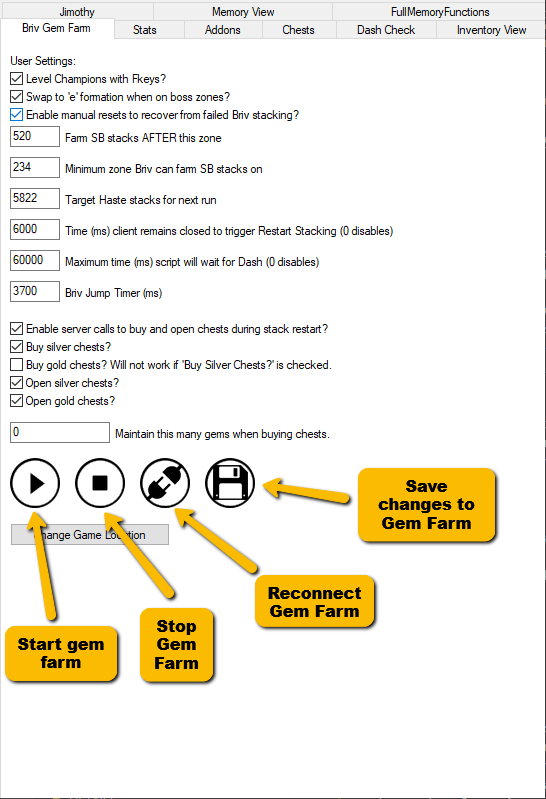
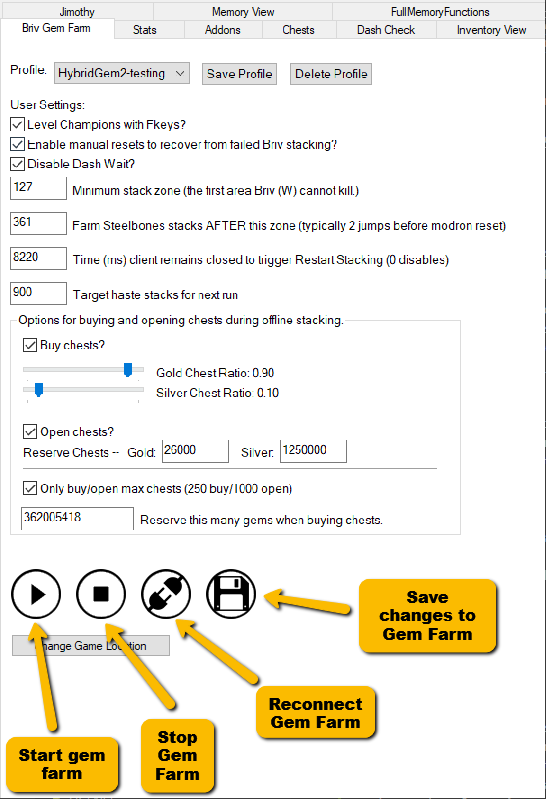
Misc. documentation updates.

Changed region(s): [[0.0, 0.0601, 0.9341, 1.0]]

diff --git a/AddOns/IC_BrivGemFarm_Performance/SETTINGS.md b/AddOns/IC_BrivGemFarm_Performance/SETTINGS.md
@@ -1,40 +1,92 @@
 # BrivGemFarm_Performance Settings File
 ## Description:
-These are the currently available advanced settings for this AddOn. These are are for advanced users and must be set from within the ``BrivGemFarmSettings.json`` file.
+These are the settings used by the BrivGemFarm_Performance AddOn. They are saved in `BrivGemFarmSettings.json` and can be configured through the main Briv Gem Farm tab, the Advanced Settings tab, or edited directly in the JSON file.
 
-## Settings: 
+## Settings:
 
-* **BrivJumpBuffer** - 0-2000 (zones/areas)  
-This value tells the script how many areas before a modron reset zone that switching to e formation over q formation is desired. The value should be greater than the stack zone value, but less than the modron reset value. This helps resolve issues of Briv Stacks not being converted properly on modron resets.
-  
-* **DashWaitBuffer** - 0-? (time in ms)  
-**Updated:** DashWaitBuffer has been repurposed to be a distance from your modron's reset zone where dashwait will stop being activated. Default is 30.
-e.g. WIth the default value DashWait will not trigger if the script is started at 280 and then reset area is 305.
-~~Sometimes DashWait timer ends before Shandie gains dash. This setting adds a value in ms to the already set DashWait time. (Largely unnecessary as you can just increase your DashWait time.)~~
+* **LastSettingsUsed**: `<string>` (Default: "Default")  
+Stores the name of the last settings profile loaded or saved.
 
-* **DoChestsContinuous**: 0 / 1  
-If you are not satisfied with only 100/99 Buy/Open chests per run you can set this to 1. The script will buy and open as many as it can within the stack sleep time set. 
+* **Fkeys**: `0` / `1` (Default: `1`)  
+When set to 1, the script uses function keys (F1-F12) to level up champions in the active team automatically, eliminating the need for familiars on individual bench slots.
 
-> **Note:** The script will only open silver chests if there are at least 3 seconds left on Stack Reset Time, and will only open Gold Chests if there are at least 7 seconds left on Stack Reset time. These are estimations of how long the server takes to process the calls for opening 99 at a time. If you know these values are incorrect, or you don't mind losing BPH by waiting longer during Stack Resets, these values can be changed in the ``IC_BrivGemFarm_Functions.ahk`` script. They are set at the top of the ``BuyOrOpenChests()`` function.  
+* **StackFailRecovery**: `0` / `1` (Default: `1`)  
+Enables forced early restarts to recover when Briv runs out of haste stacks but has sufficient Steelbones stacks in reserve to proceed with a new run.
 
-> **WARNING:** Chest purchases happen very quickly. If the maintain gems setting is set incorrectly and this option is turned on, all gems could easily be spent, especially when buying gold chests.
+* **DisableDashWait**: `0` / `1` (Default: `0`)  
+When set to 1, completely disables waiting for Shandie's Dash to activate after a stack restart.
 
-> Particularly interesting when using hybrid stacking strategy and restarting e.g. every 100k gems. If hybrid stacking is activated together with continuous chest, script will continue buying even after Stack Reset Time has elapsed - only way for it to stop automatically is when all non-reserved gems are spent and all chests are open.
+* **StackZone**: `<integer>` (Default: `700`)  
+The zone number after which the script will begin farming Steelbones stacks for Briv (usually positioned a couple of zones prior to the Modron reset zone).
 
-* **ForceOfflineGemThreshold**
-Activates "hybrid stacking" (a.k.a. Hamerstein method a.k.a. Tatyana stacking). Makes the script prefer stacking online regardless of what `RestartStackTime` says, but do offline stacking once in a while to clear memory leaks and buy/open chests. Specified as available gems above the normal reserved amount.
+* **MinStackZone**: `<integer>` (Default: `200`)  
+The minimum area zone where Briv is allowed to farm Steelbones stacks (used as a fallback recovery limit).
 
-* **ForceOfflineRunThreshold**
-Same as `ForceOfflineGemThreshold`, but specified as max amount of runs based on "Resets Done", as reported by current core. Reset is forced on the last run (so setting to 1 also disables this setting, every run will be offline). If both thresholds are enabled, any of them matching will trigger offline restart.
+* **TargetStacks**: `<integer>` (Default: `0`)  
+The target number of haste stacks that the script should attempt to farm for the next run.
 
-* **HiddenFarmWindow**: 0 / 1  
-You can enable or disable the visibility of the second script window (the one that does the farming) by setting this value. 0 will have it show when it is run. 1 will hide it so only an icon in the tray appears.
+* **RestartStackTime**: `<integer>` (Default: `12000`)  
+The time in milliseconds that the client will remain closed during a stack restart (an offline stack restart is disabled if this is set to 0).
 
-* **RestoreLastWindowOnGameOpen**: 0 / 1  
-You can enable or disable whether the script will try to switch focus back to the last active window immediately when the game opens.  
+* **BuyChests**: `0` / `1` (Default: `1`)  
+Enables automatic purchasing of chests.
 
-* **WindowXPosition**:0
-This option allows you to set where the gem farm script will appear horizontally across your screen. 0 is default and is the far left of the screen. If you have HiddenFarmWindow set to 1 there is no reason to change this.
+* **OpenChests**: `0` / `1` (Default: `1`)  
+Enables automatic opening of chests.
 
-* **WindowYPosition**:0
-This option allows you to set where the gem farm script will appear vertically on your screen. 0 is default and is the very top of the screen. If you have HiddenFarmWindow set to 1 there is no reason to change this.
+* **MinGemCount**: `<integer>` (Default: `0`)  
+The minimum gem count to maintain. No chests will be purchased if your gem count falls below this threshold.
+
+* **BuyGoldChestRatio** / **BuySilverChestRatio**: `<decimal>` (Default: `1.0` / `0.0`)  
+Determines the proportion of chest purchases allocated to gold vs. silver chests. For example, 0.9 for gold and 0.1 for silver means 90% of spent gems buy gold chests and 10% buy silver chests.
+
+* **MinGoldChestCount** / **MinSilverChestCount**: `<integer>` (Default: `0`)  
+The number of gold or silver chests to keep in reserve. The script will open chests only above this quantity.
+
+* **WaitToBuyChests**: `0` / `1` (Default: `1`)  
+Known in the GUI as "Only buy/open max chests (250 buy/1000 open)". When set to 1, the script waits to buy or open chests until a full/max request size can be sent to reduce server load.
+
+* **FeatSwapEnabled**: `0` / `1` (Default: `0`)  
+Enables automatic feat swapping (such as Briv's Steelbones vs. Haste feats) at the appropriate zones (requires supporting addons).
+
+* **HiddenFarmWindow**: `0` / `1` (Default: `0`)  
+Hides the secondary command window launched by the script for farming when set to 1. Only a tray icon will be visible.
+
+* **RestoreLastWindowOnGameOpen**: `0` / `1` (Default: `1`)  
+When enabled, the script attempts to return focus to the last active window on your computer immediately after launching the game.
+
+* **IgnoreBrivHaste**: `0` / `1` (Default: `0`)  
+Known in the GUI as "Predict Stacks Off? (IgnoreBrivHaste)". When set to 1, ignores Briv's haste stacks when predicting/deciding when to stack, forcing offline stacking once per run.
+
+* **FortOnlyRestart**: `0` / `1` (Default: `0`)  
+Known in the GUI as "No Stack FORTs". When running Forced Offline restarts, the game will restart instantly rather than farming stacks while offline.
+
+* **WaitForZoneCompleted**: `0` / `1` (Default: `1`)  
+Known in the GUI as "Complete Zone Before Stacking". When checked, the script completes the current zone before starting online stacking.
+
+* **ForceOfflineGemThreshold**: `<integer>` (Default: `0`)  
+Activates "hybrid stacking" (HTS). Forces the script to perform an offline stack restart once the number of gems earned above your reserve limit reaches this threshold (0 = disable).
+
+* **ForceOfflineRunThreshold**: `<integer>` (Default: `0`)  
+Same as `ForceOfflineGemThreshold`, but specified as the number of runs based on "Resets Done" as reported by the current Modron core. An offline stack restart is forced every N runs (0 or 1 = disable). If both run and gem thresholds are set, either reaching its threshold will trigger the stack restart.
+
+* **BrivJumpBuffer**: `<integer>` (Default: `0`)  
+The number of areas before the Modron reset zone where the script will switch from the 'q' (jump) formation to the 'e' (non-jump) formation to ensure stacks convert properly.
+
+* **DashWaitBuffer**: `<integer>` (Default: `30`)  
+The distance from your Modron's reset zone where dashwait will stop being activated.
+
+* **WindowXPosition** / **WindowYPosition**: `<integer>` (Default: `0` / `0`)  
+Sets the horizontal and vertical screen coordinates where the gem farm script window appears on your monitor.
+
+* **WardenUltThreshold** / **FaridehUltThreshold**: `<integer>` (Default: `0`)  
+Triggers Warden's or Farideh's ultimates while stacking when the number of enemies exceeds the specified threshold (0 = off).
+
+* **PreferredBrivJumpZones**: `<array>`  
+An array of 50 binary values representing the zones in a 50-zone cycle where Briv jumps are preferred (`1` allows jumping, `0` disables).
+
+* **BrivLevelingThresholdsCount**: `<integer>` (Default: `5`)  
+Specifies the count of custom zone leveling thresholds for Briv.
+
+* **BrivLevelingThresholds**: `<array>`  
+Contains the custom zone and level mapping array (e.g. `[{"zone": 1100, "level": 400}, ...]`) for auto-leveling Briv.

diff --git a/docfiles/setting-up-a-gem-farm.md b/docfiles/setting-up-a-gem-farm.md
@@ -147,35 +147,23 @@ This will have side effects in that you may no longer have time to buy or open c
 
 You may also have less reliable offline stacking if you reduce the number too much.
 
-### Enable server calls to buy and open chests during stack restart?
+### Buy chests?
+When checked, the script will buy chests during offline stack resets.
 
-If this is unchecked, none of the boxes below will have any effect.
+### Gold Chest Ratio and Silver Chest Ratio
+Sliders that allow you to balance chest purchases. For example, setting the Gold Chest Ratio to 0.9 and Silver Chest Ratio to 0.1 will buy gold chests with 90% of available gems and silver chests with 10% of available gems.
 
-### Buy silver chests?
+### Open chests?
+When checked, the script will open chests during offline stack resets.
 
-The script will buy as many silver chests as it can during Briv's offline stack restart.
+### Reserve Chests (Gold / Silver)
+Allows you to specify a minimum quantity of gold and silver chests to keep in reserve. The script will not open chests below these thresholds.
 
-### Buy gold chests? Will not work if 'Buy Silver Chests?' is checked
+### Only buy/open max chests (250 buy/1000 open)
+When checked, the script will wait to make server calls until it can purchase a full batch of 250 chests or open a full batch of 1000 chests, which minimizes the number of server calls.
 
-The script will buy as many gold chests as it can during Briv's offline stack restart. It will only have an effect if the previous setting is unchecked.
-
-### Open silver chests?
-
-Opens all unopened Silver chests when set. This does not include any chests bought on the last restart.
-
-It will fail to work if your "Time (ms) client remains closed to trigger Restart Stacking (0 disables)" setting is too low (or set to 0).
-
-### Open gold chests?
-
-Opens all unopened Gold chests when set. This does not include any chests bought on the last restart.
-
-It will fail to work if your "Time (ms) client remains closed to trigger Restart Stacking (0 disables)" setting is too low (or set to 0).
-
-### Maintain this many gems when buying chests
-
-This setting is for you if you are, for example, saving up for a 100,000 gem familiar or just want to maintain a gem buffer.
-
-Just pop the value of the gems you want to save up or keep as a buffer in here.
+### Reserve this many gems when buying chests
+This setting is for maintaining a gem buffer (e.g. if you are saving up for a familiar). The script will not spend gems on chest purchases if your gem balance falls below this number.
 
 ## Further tips
 

diff --git a/SETTINGS.md b/SETTINGS.md
@@ -5,16 +5,37 @@ These are the currently available advanced settings in Settings.json.
 ## Advanced Settings: 
 
 * **NoCtrlKeypress**: 0 / 1 (Default: 0)
-If this is set to 1, ctrl keypresses will not be used for functions within IC_SharedFunctions_Class. (e.g. in InitZone when leveling click damage.)
+If this is set to 1, ctrl keypresses will not be used for functions within IC_SharedFunctions_Class (e.g., when leveling click damage).
 
-* **WaitForProcessTime**: 0+  (Default: 0)
-Time in milliseconds the script will wait after running the game. Increasing this value is a workaround for the process ID changing using the Kartridge client.
+* **WaitForProcessTime**: 0+ (Default: 0)
+Time in milliseconds the script will wait after running the game. This can be used as a workaround for process ID changes (e.g. on Kartridge).
 
 * **WindowXPosition**: 0+ (Default: 0)
-This option allows you to set where Script Hub will appear horizontally across your screen. 0 is default and is the far left of the screen.
+Sets the horizontal (X) screen coordinate where the Script Hub window will appear.
 
 * **WindowYPosition**: 0+ (Default: 0)
-This option allows you to set where Script Hub will appear vertically on your screen. 0 is default and is the very top of the screen.
+Sets the vertical (Y) screen coordinate where the Script Hub window will appear.
 
 * **WindowTitle**: \<string\> (Default: "")  
-Adds a custom text to the window title. Useful when running multiple copies of IC Script Hub to differentiate them.
+Adds custom text to the Script Hub window title. Useful for differentiating multiple running instances of the script.
+
+* **CheckForUpdates**: 0 / 1 (Default: 1)
+Determines if Script Hub checks for updates on startup. Can be set to 0 to disable automatic version checks.
+
+* **ExeName**: \<string\> (Default: "IdleDragons.exe")
+The executable name of the game, used by the script to target and read memory.
+
+* **FontSize**: \<integer\> (Default: 8)
+Configures the base font size for the Script Hub GUI.
+
+* **InstallPath**: \<string\>
+The local filepath to the game's executable, used to launch the game automatically.
+
+* **RunHidden**: 0 / 1 (Default: 0)
+Allows launching the game with the Hide modifier. This hides cmd/shell windows that pop up during launching (e.g., when launching via legendary).
+
+* **TabControlHeight**: \<integer\> (Default: 900)
+Customizes the height of the main tab control window in the GUI.
+
+* **TabControlWidth**: \<integer\> (Default: 430)
+Customizes the width of the main tab control window in the GUI.

diff --git a/docfiles/gem-farm-advanced-settings.md b/docfiles/gem-farm-advanced-settings.md
@@ -20,15 +20,27 @@ This can be enabled or disabled. When Enabled IC Script Hub will hide the window
 
 This setting will tell the script to try and switch back from the game window to whatever window was open before the game window opened after a stack restart. 
 
-## "IgnoreBrivHaste" (Not shown)
+## "IgnoreBrivHaste"
+This setting will make the script not take into account any haste settings on Briv when deciding how many stacks to farm. It is shown in the GUI as "Predict Stacks Off? (IgnoreBrivHaste)".
 
-This setting will make the script not take into account any haste settings on Briv when deciding how many stacks to farm.
+## "ForceOfflineGemThreshold"
+The gem farm script is designed to restart the game periodically to build stacks for Briv and keep game performance optimal. This setting enables "hybrid stacking", letting you postpone the offline stack restart until the number of gems earned reaches the threshold configured here (0 = disable).
 
-## "ForceOfflineGemThreshold" (Not shown)
-The gem farm script is designed to restart the game each run to build stacks for Briv and to keep game performance optimal. This setting allows the the briv stack restart to be postponed until the number of gems reaches what is set here.
+## "ForceOfflineRunThreshold"
+Similar to `ForceOfflineGemThreshold`, but triggers the offline stack restart once every N Modron resets (runs) reaches the set value (0 or 1 = disable). If both run and gem thresholds are set, either reaching its threshold will trigger the stack restart.
 
-## "ForceOfflineRunThreshold" (Not shown)
-Same as the above but will do the stack restart once the number of modron resets (runs) reaches the set value. 
+## "FortOnlyRestart"
+Known in the GUI as "No Stack FORTs". When running Forced Offline restarts, Idle Champions will restart instantly rather than farming stacks while offline.
+
+## "WaitForZoneCompleted"
+Known in the GUI as "Complete Zone Before Stacking". When checked, the script completes the current zone before starting online stacking.
+
+## "WardenUltThreshold" / "FaridehUltThreshold"
+Use Warden's or Farideh's ultimates while stacking when the number of enemies exceeds this threshold (0 = off).
+
+## "Briv Leveling by Zone"
+Allows configuring specific zone levels where Briv should be leveled. You can configure the number of leveling zones (up to 15) and specify the Zone and corresponding Level (Lvl) for each threshold.
+
 
 ## "BrivJumpBuffer"
 
@@ -51,3 +63,5 @@ Each mission cycles through 50 zones. This setting allows you to choose which of
 Some examples:  
 - Disabling all zones ending in 5 or 0 will ensure 4/9j Briv will return to skipping bosses after defeating a boss if they erronously land on one. Do this by clicking on the 5 checkbox in the Mod 5 area.
 - Skipping specific zones that have troublesome enemies/bosses (e.g. armored/hit based) can be done by unchecking zones that are at that zone-(jump level + 1). (e.g. to avoid landing on 50 with 7j Briv, you would uncheck 50-(7+1)=42).
+
+** Note: The Route Presets are from an addon created by Emmote.

diff --git a/Addons.md b/Addons.md
@@ -5,16 +5,16 @@ Script Hub uses an addon system to add/update functionality. Developers can writ
 [Script Hub Addons](https://github.com/antilectual/Idle-Champions/tree/main/AddOns)  
 
 **Third Party Addons**:  
-*[Advanced Settings Preset Routes](https://github.com/Emmotes/IC_Addons/tree/main/IC_Addons/IC_Advanced_PresetRoutes_Extra) by Emmote  
+[Advanced Settings Preset Routes](https://github.com/Emmotes/IC_Addons/tree/main/IC_Addons/IC_Advanced_PresetRoutes_Extra) by Emmote  
 [AreaSwapper](https://github.com/Pneumatus/IC-Addons/tree/main/IC_AreaSwapper_Extra) by Ismo  
-[AreaTiming](https://github.com/imp444/IC_Addons/tree/main/IC_AreaTiming_Extra) by ImpEGamer  
+^[AreaTiming](https://github.com/antilectual/IC_Addons_1/tree/main/IC_AreaTiming_Extra) by ImpEGamer  
 [Auto Progress](https://github.com/Pneumatus/IC-Addons/tree/main/IC_AutoProgress_Extra) by Ismo  
-[BrivGemFarm BrivFeatSwap](https://github.com/imp444/IC_Addons/tree/main/IC_BrivGemFarm_BrivFeatSwap_Extra) by ImpEGamer  
+^[BrivGemFarm BrivFeatSwap](https://github.com/antilectual/IC_Addons_1/tree/main/IC_BrivGemFarm_BrivFeatSwap_Extra) by ImpEGamer  
 [BrivGemFarm HideDefaultProfile](https://github.com/Emmotes/IC_Addons/tree/main/IC_Addons/IC_BrivGemFarm_HideDefaultProfile_Extra) by Emmote  
-[BrivGemFarm HybridTurboStacking](https://github.com/imp444/IC_Addons/tree/main/IC_BrivGemFarm_HybridTurboStacking_Extra) by ImpEGamer  
-***[BrivGemFarm LevelUp](https://github.com/imp444/IC_Addons/tree/main/IC_BrivGemFarm_LevelUp_Extra) by ImpEGamer  
-*[BrivMaster]( https://github.com/RLee-EN/BrivMaster) by Irisiri  
-*[Cazrin Books Farmer](https://github.com/Emmotes/IC_Addons/tree/main/IC_Addons/IC_CazrinBooksFarmer_Extra) by Emmote  
+
+^^* [BrivGemFarm LevelUp](https://github.com/antilectual/IC_Addons_1/tree/main/IC_BrivGemFarm_LevelUp_Extra) by ImpEGamer  
+[BrivMaster]( https://github.com/RLee-EN/BrivMaster) by Irisiri  
+[Cazrin Books Farmer](https://github.com/Emmotes/IC_Addons/tree/main/IC_Addons/IC_CazrinBooksFarmer_Extra) by Emmote  
 [Claim Daily Platinum](https://github.com/Emmotes/IC_Addons/tree/main/IC_Addons/IC_ClaimDailyPlatinum_Extra) by Emmote  
 [Close Welcome Back](https://github.com/Pneumatus/IC-Addons/tree/main/IC_BrivGemFarm_CloseWelcomeBack_Extra) by Ismo  
 [EGS Overlay Swatter](https://github.com/Emmotes/IC_Addons/tree/main/IC_Addons/IC_EGSOverlaySwatter_Extra) by Emmote  
@@ -22,8 +22,8 @@ Script Hub uses an addon system to add/update functionality. Developers can writ
 [Game Settings Fix](https://github.com/Emmotes/IC_Addons/tree/main/IC_Addons/IC_GameSettingsFix_Extra) by Emmote  
 [Move Game Window](https://github.com/antilectual/IC_Addons/tree/main/IC_Addons/IC_MoveGameWindow_Mini_Extra) by antilectual  
 [Nerds](https://github.com/Pneumatus/IC-Addons/tree/main/IC_NERDs_Extra) by Ismo    
-[ProcessAffinity](https://github.com/imp444/IC_Addons/tree/main/IC_ProcessAffinity_Extra) by ImpEGamer  
-[RNGWaitingRoom](https://github.com/imp444/IC_Addons/tree/main/IC_RNGWaitingRoom_Extra) by ImpEGamer  
+^[ProcessAffinity](https://github.com/antilectual/IC_Addons_1/tree/main/IC_ProcessAffinity_Extra) by ImpEGamer  
+^[RNGWaitingRoom](https://github.com/antilectual/IC_Addons_1/tree/main/IC_RNGWaitingRoom_Extra) by ImpEGamer  
 [Shandie Dash Wait after Stacking](https://github.com/JonBallinger/IC_ShandieDashWait) by Jon Ballinger  
 [Spurt Farmer](https://github.com/Pneumatus/IC-Addons/tree/main/IC_SpurtFarmer_Extra) by Ismo  
 
@@ -43,7 +43,9 @@ Script Hub uses an addon system to add/update functionality. Developers can writ
 ~~[Better Azaka](https://github.com/Pneumatus/IC-Addons/tree/main/IC_BetterAzaka_Extra)~~ by Ismo  
 ~~[Auto Convert Favor](https://github.com/antilectual/IC_Addons/tree/main/IC_Addons/IC_ConvertBlessings_Mini_Extra)~~ by antilectual**  
 ~~[Potion Sustain](https://github.com/Emmotes/IC_Addons/tree/main/IC_Addons/IC_PotionSustain_Extra)~~ by Emmote  
+~~[BrivGemFarm HybridTurboStacking](https://github.com/antilectual/IC_Addons_1/tree/main/IC_BrivGemFarm_HybridTurboStacking_Extra)~~ by ImpEGamer (Now integrated into BGF) 
 
-\* NEW  
+\* NEW
+^ Originally by Imp444 but current compatible version maintained by Antilectual
 ** It could still function but I gave up maintaining the pointer required for this addon.  
-*** Due to game input changes this is now Required by BrivGemFarm.
+^* Highly recommended for smooth running, but no longer strictly required for basic functionality.

diff --git a/FAQ.md b/FAQ.md
@@ -18,14 +18,11 @@ Many advanced settings are hidden from the UI to make the new user experience mo
     * Addons are great for developers. If there is a feature missing, it is relatively easy to create (or ask for someone to create) an Addon that does what you want using generic shared functions.
 
 * **How does BrivGemFarm handle buying and opening chests?**  
-The logic works like this:
-  * If there is at least .1 seconds left during stack restart and your gems are higher than the maintenance level, it will **buy** between 0 and 100 **silver chests** depending on what you can afford.
-  * THEN if there is still at least .1 seconds left during stack restart and your gems are higher than the maintenance level, it will **buy** between 0 and 100 **gold chests** depending on what you can afford.
-  * THEN if there is still at least 3 seconds left during stack restart and you have unopened silvers, it will **open** between 0-99 **silver chests** depending on how many you have.
-  * THEN if there is still at least 3 seconds left during stack restart and you have unopened golds, it will **open** between 0-99 **gold chests** depending on how many you have.
+  Buying and opening chests are handled by a background ServerCall script to avoid pausing or lagging the main gem farm. The settings allow you to configure:
+  * **Buy Chests**: Specify whether the script should buy chests, using a ratio slider to balance gold vs silver chest purchases (e.g. 0.9 Gold / 0.1 Silver).
+  * **Open Chests**: Specify whether the script should open chests. You can set a reserve limit for both gold and silver chests so the script doesn't open them below those numbers.
+  * **Max Chests Only**: There is an option to only buy/open max chests (250 buy / 1000 open per server call) to optimize server calls.
+  * **Gem Reserves**: Specify a gem reserve value under which no chests will be bought.
 
-  If the advanced setting ``DoChestsContinuous`` is set to 1, it will repeat this process as long as there is time during the Stack Reset.  
-  > **WARNING:** Be careful setting this value to 1. MANY purchases can happen during a reset and gems will seemingly evaporate.  
-
-* **NEW! Can I run the Gem Farm script on multiple platforms at the same time?**  
+* **Can I run the Gem Farm script on multiple platforms at the same time?**  
 Yes! To run the script on multiple platforms first requires a copy of the entire IC Script Hub for each platform that will be used. Game detection is based on exe name so one platform will need the `IdleDragons.exe` to be renamed (e.g. IdleDragonsSteam.exe) and the `IdleDragons_Data` folder to be renamed in the same way (e.g. IdleDragonsSteam_Data). Set up each script with their own settings. The important thing is to remember to set the Install exe to the new renamed exe in the game location.

diff --git a/AddOns/SH_Addon_Management/README.md b/AddOns/SH_Addon_Management/README.md
@@ -1,6 +1,6 @@
 # Addon Management
 ## Description:
-This Addon will help you with the enabling and disabling of other Addons in the [IC Scripthub](https://github.com/mikebaldi/Idle-Champions).
+This Addon will help you with the enabling and disabling of other Addons in the [IC Scripthub](https://github.com/antilectual/Idle-Champions).
 It will read all addons in the addon folder and will list them, you'll have the choice to enable them or disable them.
 
 ## How to use:

diff --git a/docfiles/an-introduction-to-ic-script-hub.md b/docfiles/an-introduction-to-ic-script-hub.md
@@ -28,7 +28,7 @@ The script then automates the progression through many, many modron core resets 
 
 The primary aim of the gem farm script is to automate farming gems that you use to increase your champion power by accumulating gems for a specific goal. 
 
-You can set the script to buy either silver or gold chests as you stack Briv for the next run.
+You can configure the script to buy and open gold and/or silver chests based on customizable purchase ratios and reserve limits.
 
 ### Continue to more information
 

diff --git a/docfiles/getting-started-with-ic-script-hub-using-git.md b/docfiles/getting-started-with-ic-script-hub-using-git.md
@@ -28,7 +28,7 @@ Log in using the credentials you created in the previous step once you have inst
 
 ## Creating a local clone of the IC Script Hub repository
 
-[Navigate to the code repository for `IC Script Hub` in a browser](https://github.com/mikebaldi/Idle-Champions/tree/main) and then click the green Code button. Pick `Open with GitHub Desktop`.
+[Navigate to the code repository for `IC Script Hub` in a browser](https://github.com/antilectual/Idle-Champions/tree/main) and then click the green Code button. Pick `Open with GitHub Desktop`.
 
 ![Cloning the repository into GitHub Desktop](../docimages/code-and-open-in-github-desktop.png)
 

diff --git a/docfiles/getting-started-with-ic-script-hub-using-zip.md b/docfiles/getting-started-with-ic-script-hub-using-zip.md
@@ -11,7 +11,7 @@
 
 ## Downloading the Zip file
 
-[Navigate to the code repository for `IC Script Hub` in a browser](https://github.com/mikebaldi/Idle-Champions/tree/main) and then click the green Code button. Pick `Download ZIP`.
+[Navigate to the code repository for `IC Script Hub` in a browser](https://github.com/antilectual/Idle-Champions/tree/main) and then click the green Code button. Pick `Download ZIP`.
 
 ![Download the zip file](../docimages/grabbing-the-zip.png)
 